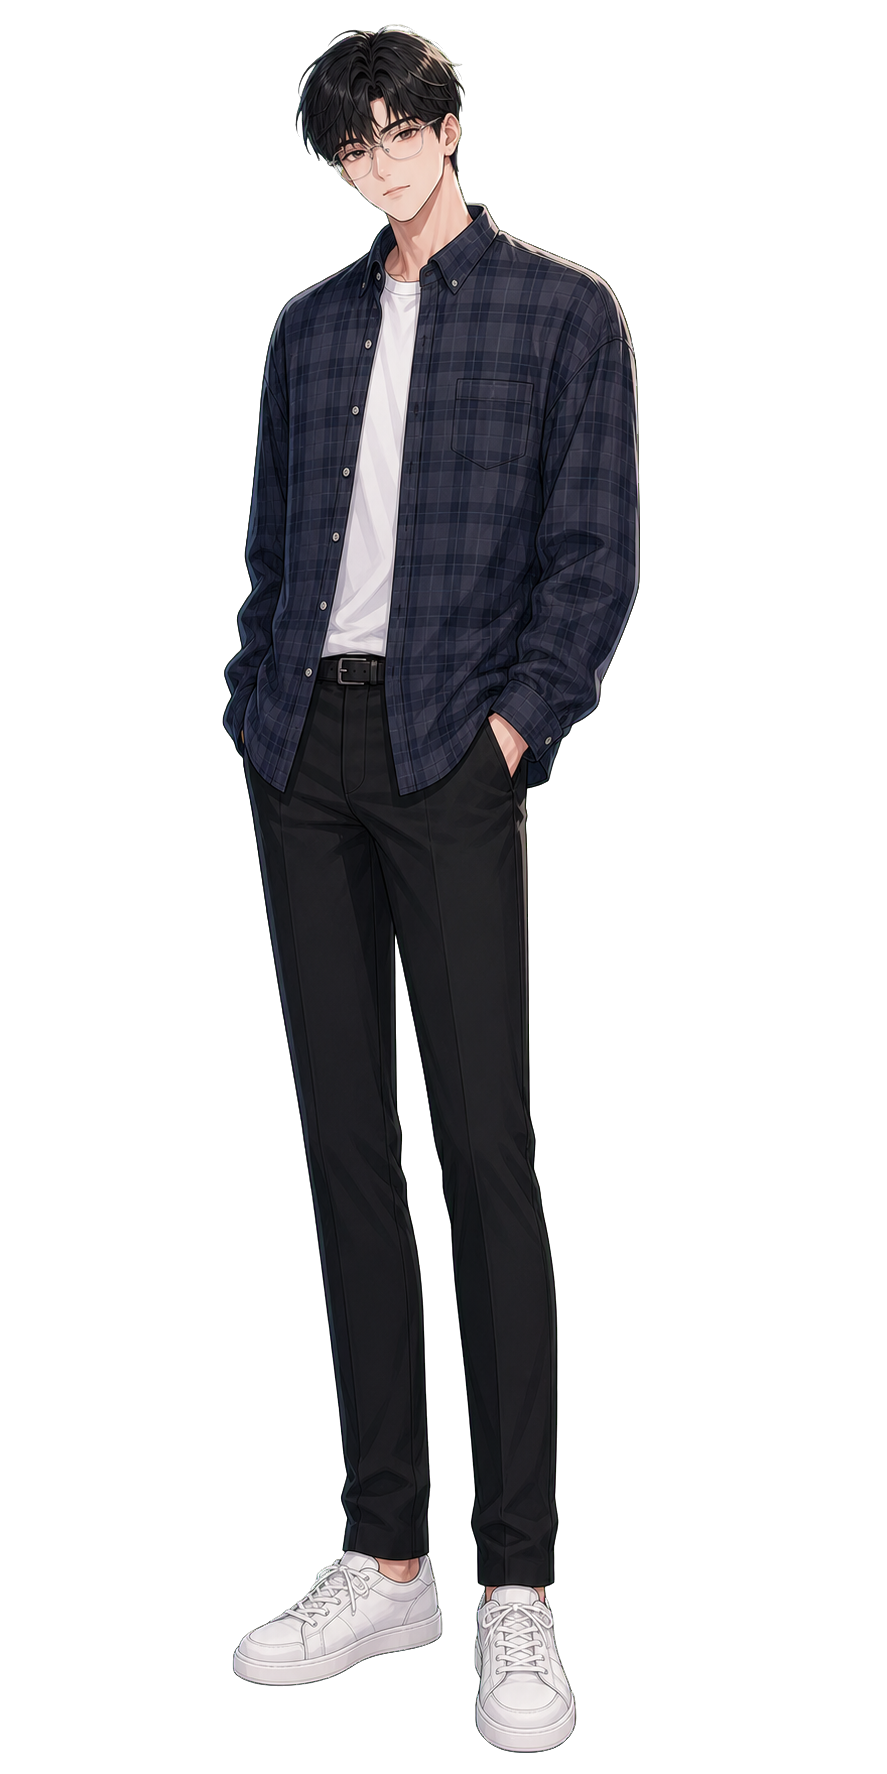
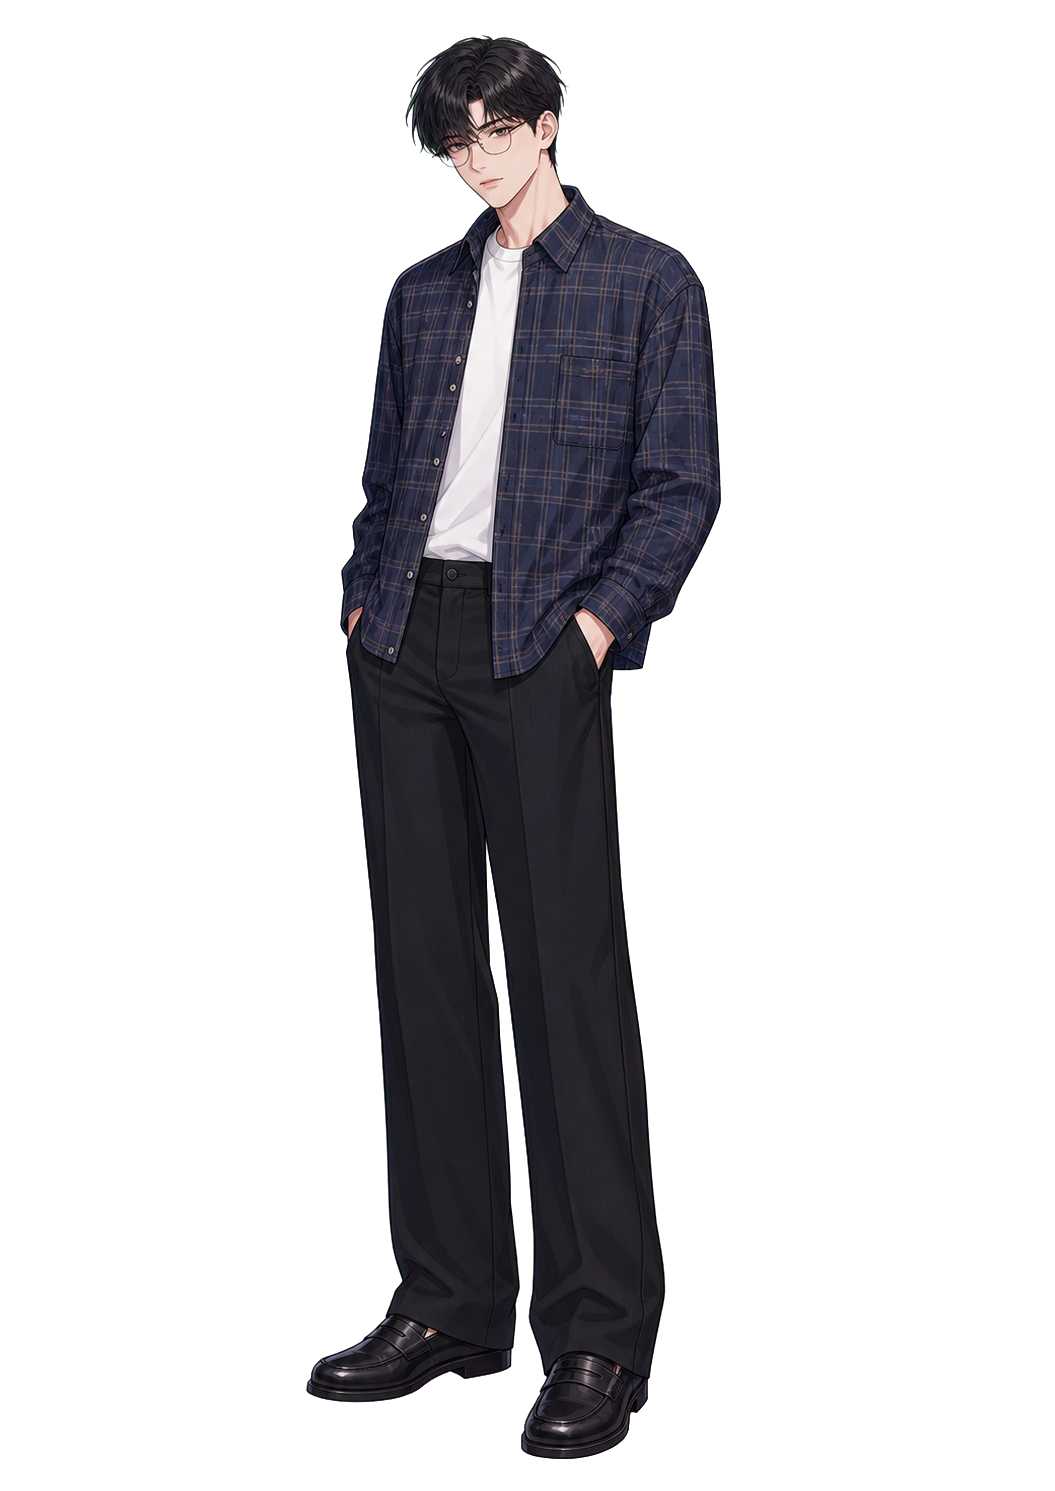
feat: 지성 여주 실루엣 이미지 수정

diff --git a/mentoring_edition_v2.html b/mentoring_edition_v2.html
@@ -109,7 +109,7 @@
   .scene-chars .char.dim{opacity:.32;filter:grayscale(.4)}
   .scene-chars .char .name{color:#fff;text-shadow:0 1px 4px rgba(0,0,0,.5)}
   .solo{position:absolute;bottom:150px;left:0;right:0;display:flex;justify-content:center;z-index:1}
-  .solo svg{height:min(46vh,320px);width:auto;filter:drop-shadow(0 10px 20px rgba(0,0,0,.4))}
+  .solo svg,.solo img{height:min(46vh,320px);width:auto;filter:drop-shadow(0 10px 20px rgba(0,0,0,.4))}
   .qhead{position:absolute;top:58px;left:14px;z-index:5;background:rgba(255,255,255,.92);border-radius:30px;padding:6px 15px;font-weight:800;color:var(--pink-d);font-size:13px}
   .discuss{display:none}
   .discuss b{display:block;font-size:10px;opacity:.8;letter-spacing:.05em;margin-bottom:2px}
@@ -127,7 +127,7 @@
     display:none;align-items:center;justify-content:center;text-align:center;padding:28px}
   .narration.active{display:flex}
   .narration .inner{max-width:560px;color:#fff}
-  .narration .inner svg{height:min(42vh,300px);width:auto;margin-bottom:18px;filter:drop-shadow(0 12px 24px rgba(0,0,0,.5))}
+  .narration .inner svg,.narration .inner img{height:min(42vh,300px);width:auto;margin-bottom:18px;filter:drop-shadow(0 12px 24px rgba(0,0,0,.5))}
   .narration .txt{font-size:20px;line-height:1.8;font-weight:800;white-space:pre-line;text-shadow:0 2px 10px rgba(0,0,0,.5)}
   .narration .hint{margin-top:14px;font-size:12px;color:#cbd4ff;font-weight:700}
   .char.mood-shy img{filter:drop-shadow(0 14px 16px rgba(0,0,0,.16)) saturate(1.12) brightness(1.04)}
@@ -225,7 +225,7 @@
     .qhead{top:74px;left:12px;font-size:12px}
     .discuss{top:74px;right:12px;max-width:52%;font-size:11px}
     .narration .txt{font-size:17px}
-    .narration .inner svg{height:min(34vh,240px)}
+    .narration .inner svg,.narration .inner img{height:min(34vh,240px)}
     .speech{top:34px;width:calc(100% - 28px);font-size:15px;padding:14px 16px}
     .ending-scene img{height:72%;max-width:78vw}
     #ending .who{bottom:86px;width:100%;font-size:17px}
@@ -305,7 +305,7 @@ function imgTag(id,mood){const base=BASE_IMG[id]||"";return `<img src="assets/ch
 const CHARS=[
  {id:"hyeong",name:"형규",tag:"다정한 과 선배",mbti:"ENFJ",club:"과 학생회",desc:"베이지·아이보리 가디건과 셔츠의 포멀한 캠퍼스 선배. 사람 많은 중심에서 후배를 자연스럽게 챙긴다.",like:"사람 챙기기, 과방 커피 타주기, 후배 밥 사주기, 잔잔한 어쿠스틱, 단체사진",dislike:"분위기 깨는 사람, 뒷담화, 약속 안 지키기, 소외되는 사람 방치"},
  {id:"jinha",name:"진하",tag:"나쁜 남자 밴드부 보컬",mbti:"ISTP",club:"밴드부",desc:"블랙 레이어드 헤어, 가죽 재킷과 체인이 어울리는 락시크 보컬. 말은 짧지만 배려는 정확하다.",like:"합주·라이브, 새벽 드라이브, 가죽 재킷, 솔직한 사람, 무심한 배려",dislike:"가식, 오지랖, 규칙 강요, 돌려 말하기"},
- {id:"jisung",name:"지성",tag:"조용한 과 동기",mbti:"INFP",club:"보드게임 동아리",desc:"후드와 셔츠, 투명 뿔테 안경의 공대 동기. 조용하지만 여주를 몰래 챙기고 오래전부터 마음을 숨기고 있다.",like:"문제 풀이, 조용한 카페, 논리 퍼즐, 여주 몰래 챙기기",dislike:"시끄러운 자리, 근거 없는 주장, 억지 텐션, 주목받기"},
+ {id:"jisung",name:"지성",tag:"조용한 과 동기",mbti:"INFP",club:"보드게임 동아리",desc:"내린 앞머리와 투명 뿔테 안경, 체크 셔츠와 와이드 팬츠가 어울리는 공대 동기. 조용하지만 여주를 몰래 챙기고 오래전부터 마음을 숨기고 있다.",like:"문제 풀이, 조용한 카페, 논리 퍼즐, 여주 몰래 챙기기",dislike:"시끄러운 자리, 근거 없는 주장, 억지 텐션, 주목받기"},
  {id:"chanhyung",name:"찬형",tag:"유쾌한 농구부 주장",mbti:"ENTP",club:"농구부",desc:"오버핏 스트릿룩과 스니커즈가 잘 어울리는 에너지형 선배. 농구부를 챙기며 분위기를 살린다.",like:"농구, 스트릿 패션, 팀 챙기기, 에너지 넘치는 하루, 즉흥 약속",dislike:"축 처진 분위기, 몸 사리는 것, 약속 파토, 재미없는 것"},
  {id:"seongho",name:"성호",tag:"연세대학교 응원단 단장",mbti:"ENFP",club:"응원단",desc:"파란색과 흰색 응원단 유니폼이 잘 어울리는 캠퍼스 리더. 큰 웃음과 에너지로 주변 사람을 자연스럽게 끌어당긴다.",like:"응원 연습, 단체 구호, 봄 캠퍼스 산책, 후배 챙기기, 무대 위 박수 소리",dislike:"팀 분위기 깨는 말, 소극적인 태도, 약속 없는 결석, 진심 없는 칭찬"},
  {id:"seokju",name:"석주",tag:"편안한 소꿉친구 ",mbti:"ISFJ",club:"건축봉사동아리",desc:"회색 오버핏 후드와 청바지가 익숙한 소꿉친구 같은 동기. 조용하지만 필요한 순간에는 늘 옆에 있어주는 안정감이 있다.",like:"편의점 간식, 해 질 녘 골목, 늦은 밤 산책, 오래된 약속, 조용한 위로",dislike:"갑작스러운 주목, 빈말, 무리한 부탁, 혼자 참는 사람을 그냥 두기"}
@@ -313,21 +313,7 @@ const CHARS=[
 const MOOD={smile:"평온",bright:"환함",worry:"걱정",shy:"설렘",serious:"진지",cool:"시크",smirk:"픽 웃음",play:"장난"};
 const EMOTE={smile:"🙂",bright:"✨",worry:"💦",shy:"💗",serious:"❗",cool:"🎧",smirk:"😏",play:"😆"};
 function art(id,mood="smile"){return `<div class="mood-chip">${MOOD[mood]||"표정"}</div>${imgTag(id,mood)}`;}
-function silhouette(){return `<svg viewBox="0 0 240 360" xmlns="http://www.w3.org/2000/svg" aria-label="여자 주인공 실루엣">
-  <defs>
-    <radialGradient id="heroGlow" cx="50%" cy="35%" r="62%"><stop offset="0" stop-color="#8894ff" stop-opacity=".72"/><stop offset=".55" stop-color="#495078" stop-opacity=".28"/><stop offset="1" stop-color="#11131f" stop-opacity="0"/></radialGradient>
-    <linearGradient id="heroHair" x1="0" x2="1"><stop offset="0" stop-color="#070812"/><stop offset=".55" stop-color="#151827"/><stop offset="1" stop-color="#070812"/></linearGradient>
-    <linearGradient id="heroBody" x1="0" x2="0" y1="0" y2="1"><stop offset="0" stop-color="#191b2c"/><stop offset="1" stop-color="#080911"/></linearGradient>
-  </defs>
-  <ellipse cx="120" cy="138" rx="106" ry="128" fill="url(#heroGlow)"/>
-  <path d="M120 35c-36 0-57 25-58 62-18 10-25 33-20 60 4 24 16 42 31 52l-8 43c-27 13-42 41-45 84h200c-3-43-18-71-45-84l-8-43c15-10 27-28 31-52 5-27-2-50-20-60-1-37-22-62-58-62Z" fill="url(#heroHair)"/>
-  <path d="M75 102c-8 53 0 91 19 116-31-17-45-55-38-90 3-16 9-24 19-26Z" fill="#05060d" opacity=".9"/>
-  <path d="M165 102c8 53 0 91-19 116 31-17 45-55 38-90-3-16-9-24-19-26Z" fill="#05060d" opacity=".9"/>
-  <path d="M92 171c7 18 18 29 28 29s21-11 28-29l7 66H85l7-66Z" fill="#11131f"/>
-  <path d="M66 256c10-32 29-50 54-50s44 18 54 50l17 104H49l17-104Z" fill="url(#heroBody)"/>
-  <path d="M69 259c27 22 75 22 102 0" fill="none" stroke="#2f365a" stroke-width="3" opacity=".45"/>
-  <circle cx="120" cy="134" r="2.4" fill="#dfe6ff" opacity=".75"/>
-</svg>`;}
+function silhouette(){return `<img src="assets/characters/heroine_silhouette.png" alt="여자 주인공 실루엣">`;}
 function bgHTML(kind){const IMG={main:"assets/backgrounds/yonsei_main.png",course:"assets/backgrounds/class.png",club:"assets/backgrounds/ot.png",mt:"assets/backgrounds/mt.png",travel:"assets/backgrounds/yonsei_main.png",festival:"assets/backgrounds/festival.png",booth:"assets/backgrounds/booth.png"};return IMG[kind]?`<img src="${IMG[kind]}" alt="">`:"";}
 
 const QUESTS=[
@@ -370,7 +356,7 @@ const TALK_SCRIPT={
 const SPRITE_PROMPTS={
  hyeong:"same character sheet, korean webtoon style, warm friendly ENFJ university senior, beige cardigan, bust-up close-up, expressions: gentle smile, worried, shy blush, bright confession smile, hand reaching forward, clean lineart, soft cel shading, transparent background",
  jinha:"same character sheet, korean webtoon style, bad-boy ISTP band vocalist, black layered hair, leather jacket, bust-up close-up, expressions: cool gaze, serious stare, faint smirk, shy glance away, hand in pocket or guitar strap gesture, transparent background",
- jisung:"same character sheet, Korean webtoon manhwa style, quiet mysterious engineering-major university student, neat dark hair with soft bangs, clear-frame glasses, plaid checked button-up shirt over plain white tee, slim trousers, bust-up close-up, expressions: calm intelligent, worried, shy blush, serious confession, subtle hand gesture only, transparent background",
+ jisung:"same character sheet, Korean webtoon manhwa style, quiet mysterious engineering-major university student, soft dark hair worn down with natural bangs, clear-frame glasses, plaid checked button-up shirt over plain white tee, loose wide-leg trousers, black leather loafers, bust-up close-up, expressions: calm intelligent, worried, shy blush, serious confession, subtle hand gesture only, identical outfit hairstyle body pose and framing, transparent background",
  chanhyung:"same character sheet, korean webtoon style, athletic ESFP streetwear senior, cap hoodie sneakers, bust-up close-up, expressions: bright grin, playful wink, serious caring, shy smile, tapping shoulder gesture, transparent background",
  seongho:"same character sheet, korean webtoon style, cheerful ENFP cheer squad campus leader, blue and white varsity cheer uniform, athletic build, bust-up close-up, expressions: bright crescent-eye smile, playful confidence, shy confession, energetic wink, transparent background",
  seokju:"same character sheet, korean webtoon style, quiet ISFJ childhood friend, gray oversized hoodie, soft messy black hair, sleepy gentle eyes, bust-up close-up, expressions: calm smile, worried caring, shy blush, serious confession, hands in hoodie pocket gesture, transparent background"
